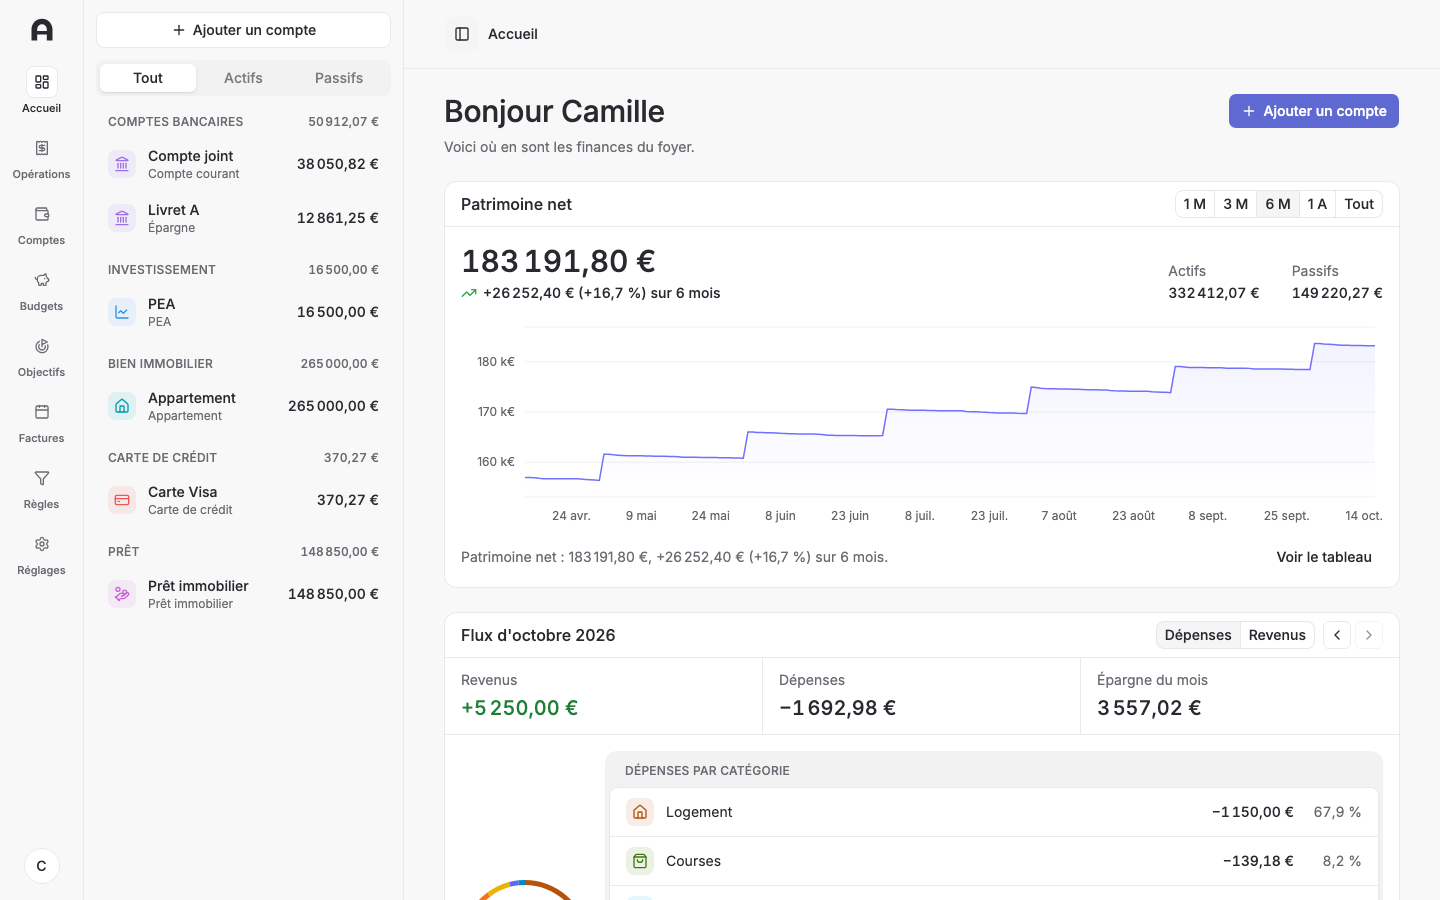
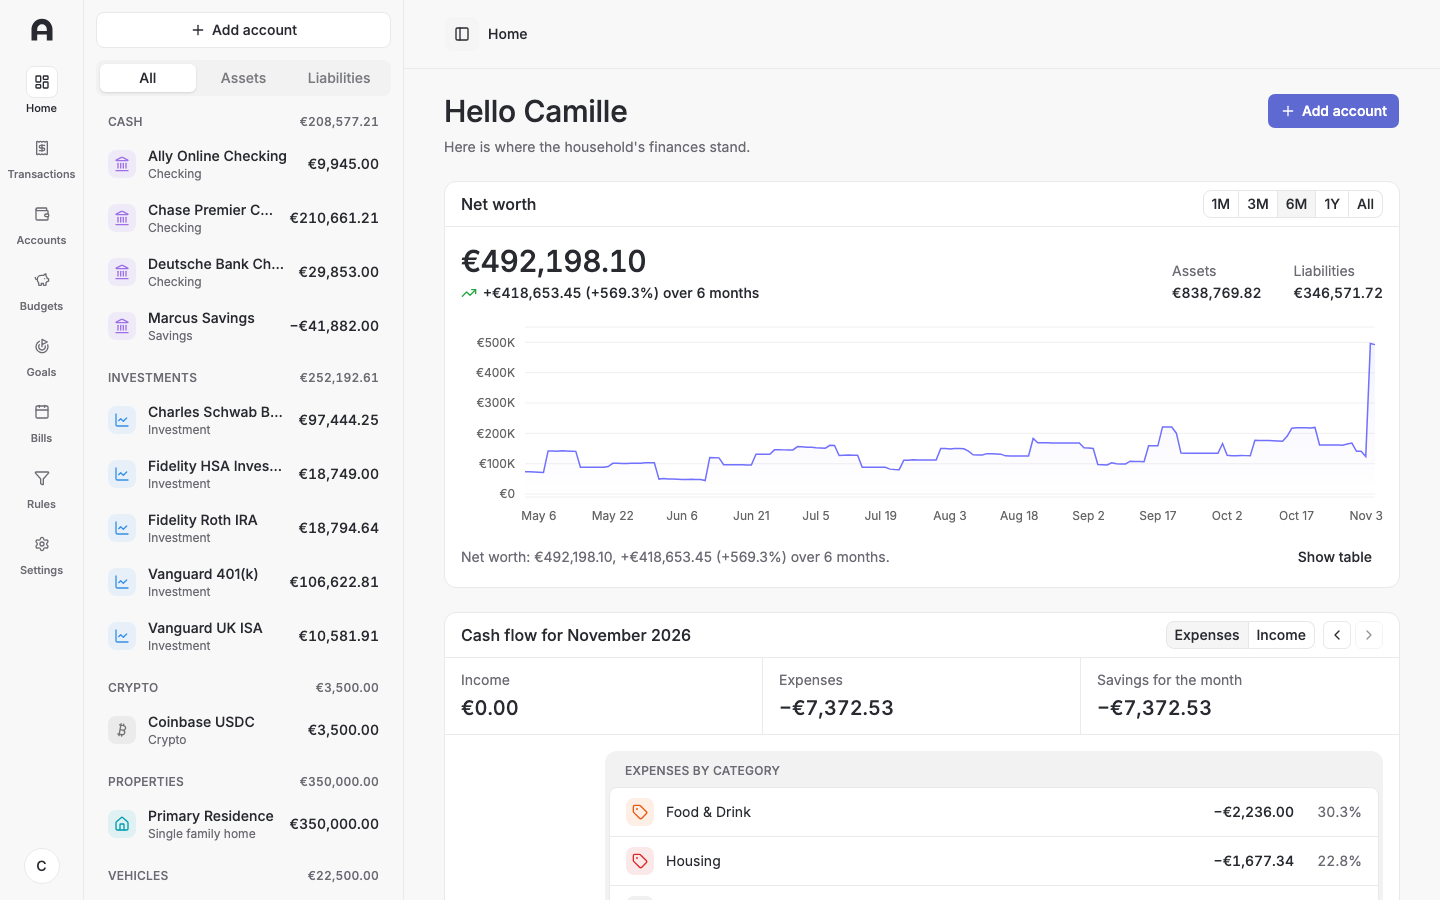
Show the README's screenshots in English (Story 37.5) (#295)

diff --git a/README.md b/README.md
@@ -15,7 +15,7 @@ Know its limits before you install it:
 - One household. There is no public sign-up: an administrator invites each other member by a link, as an administrator or as a read-only viewer, and every member sees the whole household, with no per-account sharing.
 - Bank synchronisation goes through [Enable Banking](https://enablebanking.com) only, which covers European banks and needs an application registered with it. File import works without it.
 
-![The dashboard: accounts in the sidebar, net worth over six months, and the month's income and expenses by category, all made-up data](docs/images/dashboard.png)
+![The dashboard: accounts in the sidebar, net worth over six months, and the month's income and expenses by category, in English, all made-up data](docs/images/dashboard.png)
 
 ![The transaction list across accounts, grouped by day, with categories and an internal transfer, all made-up data](docs/images/transactions.png)
 

diff --git a/_bmad-output/planning-artifacts/epics.md b/_bmad-output/planning-artifacts/epics.md
@@ -8895,6 +8895,20 @@ So that an English household has no French line the server wrote.
 **When** the household is English
 **Then** they stay French: no story takes them yet
 
+### Story 37.5: Show the README in English
+
+As a visitor of the repository,
+I want the README's screenshots in English,
+So that the project reads as the international open-source project it is.
+
+**Requirements:** none new
+
+**Acceptance Criteria:**
+
+**Given** `docs/images/dashboard.png` and `transactions.png`
+**When** this story ships
+**Then** they are taken again from an English household loaded with « Reset and load sample data », light theme, 1440×900, the dashboard on « 6M », and the alt texts say they are in English
+
 ### Story 37.3: Cover both languages end to end
 
 As the owner,
